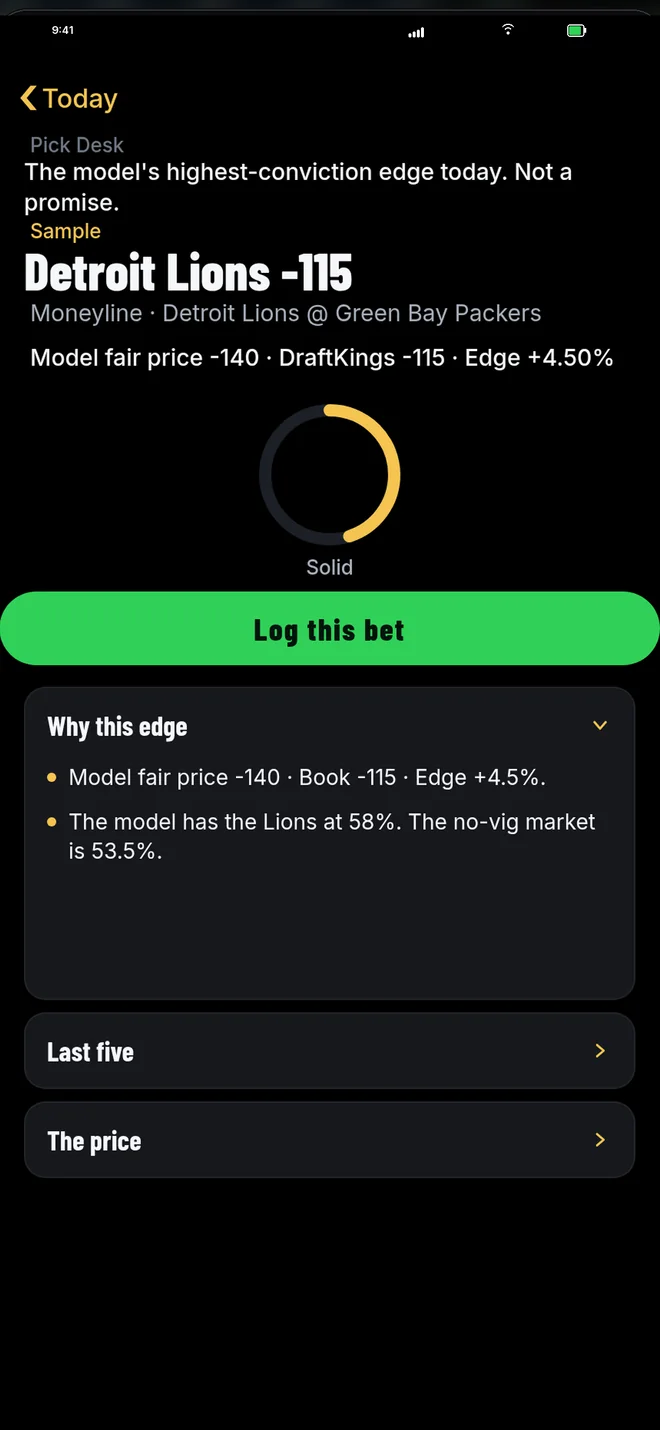
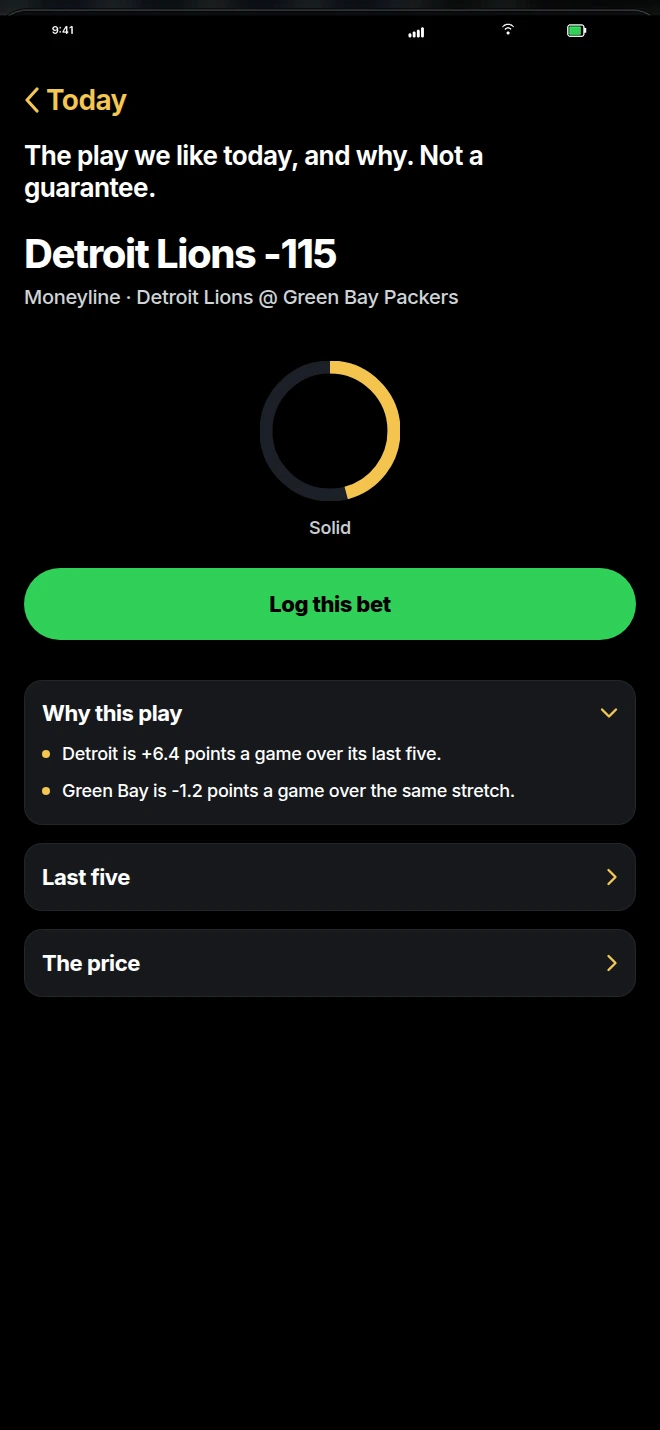
Reframe Play of the Day as the wager we like today
Replace the price-gap edge copy and the phone screenshot so the section shows one play, the odds, and the reason, without a fair-price comparison.

Changed region(s): [[0.0, 0.0615, 1.0, 0.8308], [0.8182, 0.2462, 0.9394, 0.2769], [0.7879, 0.0923, 0.8485, 0.1231]]

diff --git a/index.html b/index.html
@@ -69,31 +69,31 @@
         <div class="potd-glow" aria-hidden="true"></div>
         <div class="phone lg">
           <span class="btn b1"></span><span class="btn b2"></span><span class="btn b3"></span><span class="btn b4"></span>
-          <div class="screen"><img src="img/potd.webp" width="660" height="1431" alt="Play of the Day in MushPicks: the model's fair price, the book's price and the edge" loading="lazy"><span class="island"></span></div>
+          <div class="screen"><img src="img/potd.webp" width="660" height="1431" alt="Play of the Day in MushPicks: today's play, the odds, and the reason we like it" loading="lazy"><span class="island"></span></div>
         </div>
       </div>
       <div class="potd-copy">
         <p class="kicker reveal">Play of the Day</p>
-        <h2 class="reveal">One play.<br>Our biggest edge.</h2>
-        <p class="body reveal">Every day, our model scans the board, compares its numbers to the market, and puts the single strongest edge in front of you.</p>
+        <h2 class="reveal">One play.<br>The one we like today.</h2>
+        <p class="body reveal">Every day, MushPicks puts one wager in front of you — the play we think is going to win that day.</p>
         <div class="units reveal">
           <div class="scale" role="img" aria-label="Unit scale from 1 to 5 units. 1 to 3 units are most common; 4 and 5 units are rare.">
             <span class="u u1">1u</span><span class="u u2">2u</span><span class="u u3">3u</span><span class="u u4">4u</span><span class="u u5">5u</span>
           </div>
           <div class="scale-key" aria-hidden="true"><span>Most days</span><span>Rare</span></div>
-          <p>Each play comes with a suggested size from 1 to 5 units, and the size follows how big the edge is. Most days it's 1 to 3 units, and 4 or 5 units are saved for the rare spots where the gap is huge.</p>
+          <p>Each play comes with a suggested size from 1 to 5 units, based on how strongly we like it. Most days it's 1 to 3 units, and 4 or 5 units are rare.</p>
         </div>
         <p class="closer-line reveal">You get the pick, the units, and the reason behind it. Then you decide.</p>
         <p class="small reveal">Model picks, not guarantees. 21+. Bet responsibly.</p>
       </div>
     </div>
     <div class="wrap edge">
-      <h3 class="edge-title reveal">How we find the edge</h3>
+      <h3 class="edge-title reveal">How we pick it</h3>
       <ol class="steps">
-        <li class="reveal"><span class="n">01</span><h4>We set our own price.</h4><p>For every game, our model works out how likely each side is from each team's last five games: points scored, points allowed, and the margin between them. Player props use the player's own recent game logs.</p></li>
-        <li class="reveal"><span class="n">02</span><h4>We take the vig out.</h4><p>We strip the built-in cut out of the prices at four or more sportsbooks and blend them into the real odds the market is implying.</p></li>
-        <li class="reveal"><span class="n">03</span><h4>We find the gap.</h4><p>Every day we post the biggest edge we find. The bigger the gap, the more units we suggest. If the best gap is under 3 percentage points, that play still goes out at 1 unit, with the honest numbers attached.</p></li>
-        <li class="reveal"><span class="n">04</span><h4>We only play real prices.</h4><p>We skip anything priced worse than -170, so you're never laying big juice for small returns.</p></li>
+        <li class="reveal"><span class="n">01</span><h4>We look at recent form.</h4><p>For every game, our model works from each team's last five games: points scored, points allowed, and the margin between them. Player props use the player's own recent game logs.</p></li>
+        <li class="reveal"><span class="n">02</span><h4>We pick the side we like to win.</h4><p>We use those numbers to choose the single play we think is going to win that day, across every sport on the board. This is not a cheap-number or price-gap play. It's the wager we like most.</p></li>
+        <li class="reveal"><span class="n">03</span><h4>We explain the reason.</h4><p>You see why we like it, in plain language, from the actual data. If we don't have a real reason, we pick a different play.</p></li>
+        <li class="reveal"><span class="n">04</span><h4>We only play real prices.</h4><p>We skip anything priced worse than -170, so you're never laying big juice for a short favorite.</p></li>
       </ol>
     </div>
   </section>
